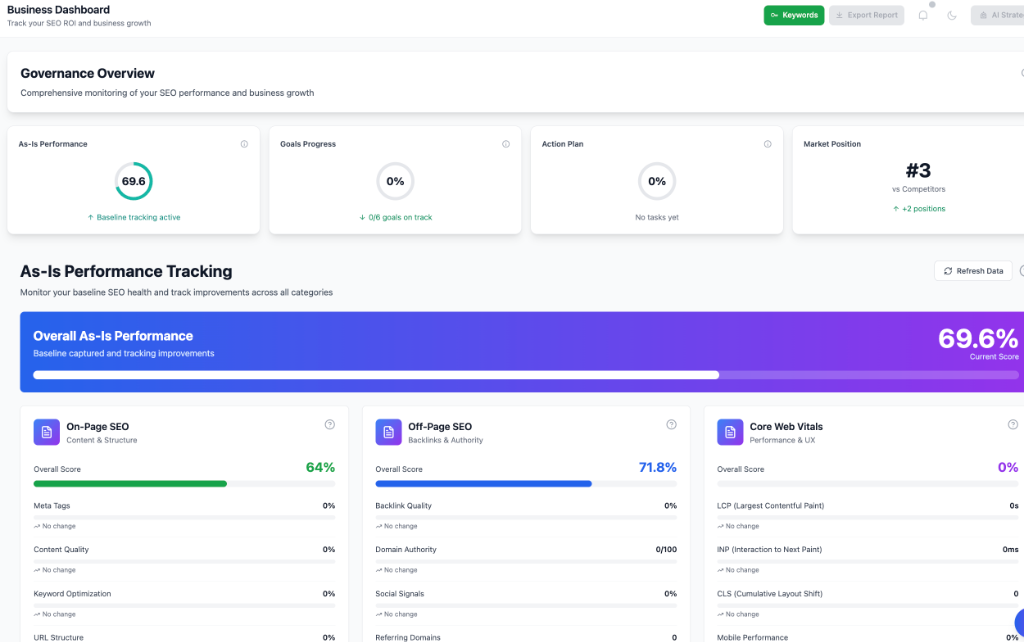
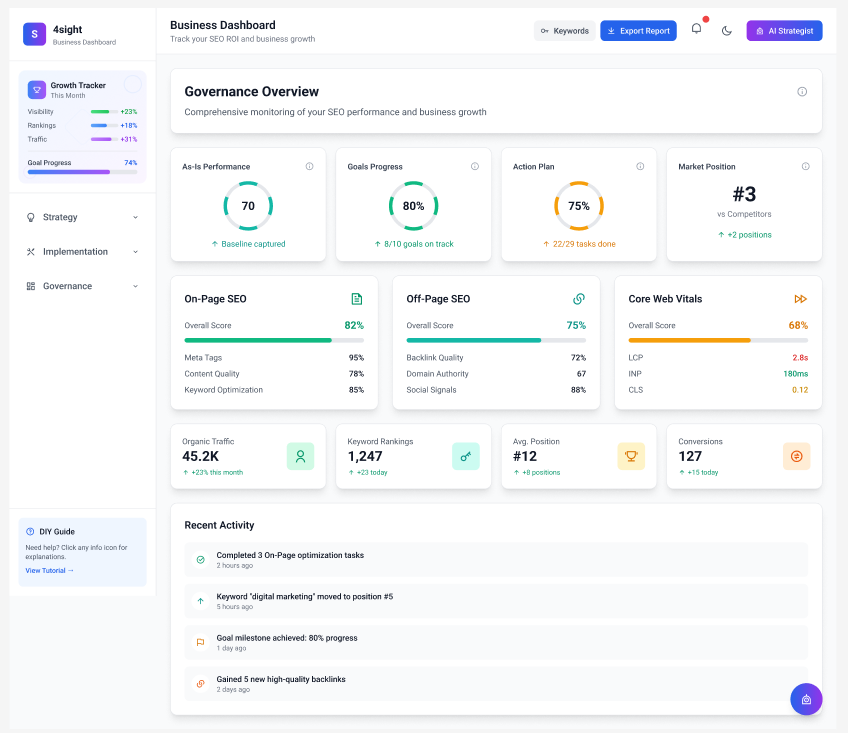
Update all 4 flip card dashboard images (Strategy, Implementation, Governance, Optimization)

diff --git a/src/components/home/EthosSection.jsx b/src/components/home/EthosSection.jsx
@@ -4,7 +4,9 @@ import './EthosSection.css';
 
 // Import dashboard screenshots
 import strategyDashboardImg from '../../assets/strategy-dashboard.png';
+import implementationDashboardImg from '../../assets/implementation-dashboard.png';
 import governanceDashboardImg from '../../assets/governance-dashboard.png';
+import optimizationDashboardImg from '../../assets/optimization-dashboard.png';
 
 // SIGO Framework - Strategy, Implementation, Governance, Optimization
 const ethosStatements = [
@@ -22,6 +24,7 @@ const ethosStatements = [
         title: 'Implementation',
         description: 'AI enabled toolset to generate artifacts like Blogs, FAQs, Meta Tags etc., needed to boost SEO performance.',
         dashboardLabel: 'Implementation Dashboard',
+        dashboardImage: implementationDashboardImg,
     },
     {
         id: 3,
@@ -37,6 +40,7 @@ const ethosStatements = [
         title: 'Optimization',
         description: 'Strategic workbench to optimize SEO performance by providing insights related to ecosystem, competition & keyword universe.',
         dashboardLabel: 'Optimization Dashboard',
+        dashboardImage: optimizationDashboardImg,
     },
 ];
 
